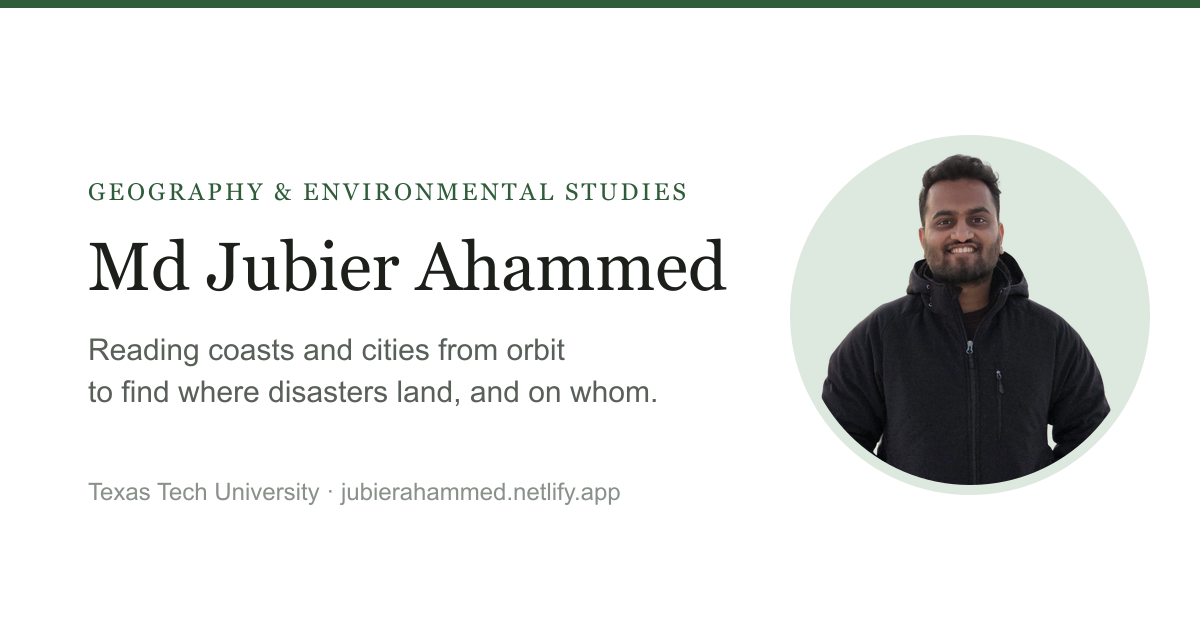
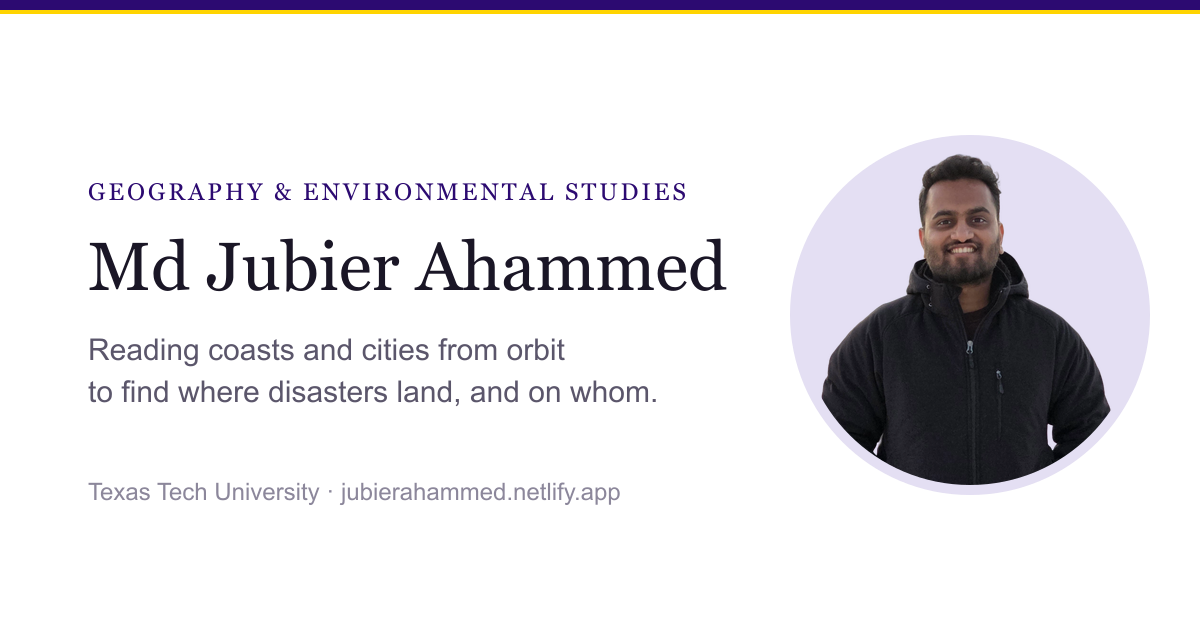
Switch palette to indigo and yellow to match the Google Site theme

Changed region(s): [[0.0, 0.0, 1.0, 0.0302], [0.0925, 0.2714, 0.5858, 0.3317]]

diff --git a/src/styles/global.css b/src/styles/global.css
@@ -2,19 +2,21 @@
    Design tokens
    --------------------------------------------------------------- */
 :root {
-  /* Accent: muted forest green */
-  --color-accent: #2f5d3a;
-  --color-accent-strong: #244a2e;
-  --color-accent-soft: #dde9df;
-  --color-accent-tint: #e8f0e9;
+  /* Accent: deep indigo, matched to the Google Site theme, with a yellow highlight */
+  --color-accent: #2c0a71;
+  --color-accent-strong: #1f0752;
+  --color-accent-soft: #e4dff3;
+  --color-accent-tint: #f1eef9;
+  --color-highlight: #ffd400;
+  --color-highlight-soft: #fff4b8;
 
   /* Neutrals */
   --color-bg: #ffffff;
-  --color-surface: #f6f8f6;
-  --color-text: #1c1f1a;
-  --color-text-muted: #59605a;
-  --color-text-faint: #8a908a;
-  --color-border: #dfe3df;
+  --color-surface: #f6f5fa;
+  --color-text: #1a1626;
+  --color-text-muted: #5b566b;
+  --color-text-faint: #8c879b;
+  --color-border: #e2dfea;
 
   /* Type */
   --font-serif: "Source Serif 4", "Iowan Old Style", "Palatino Linotype", Georgia, serif;
